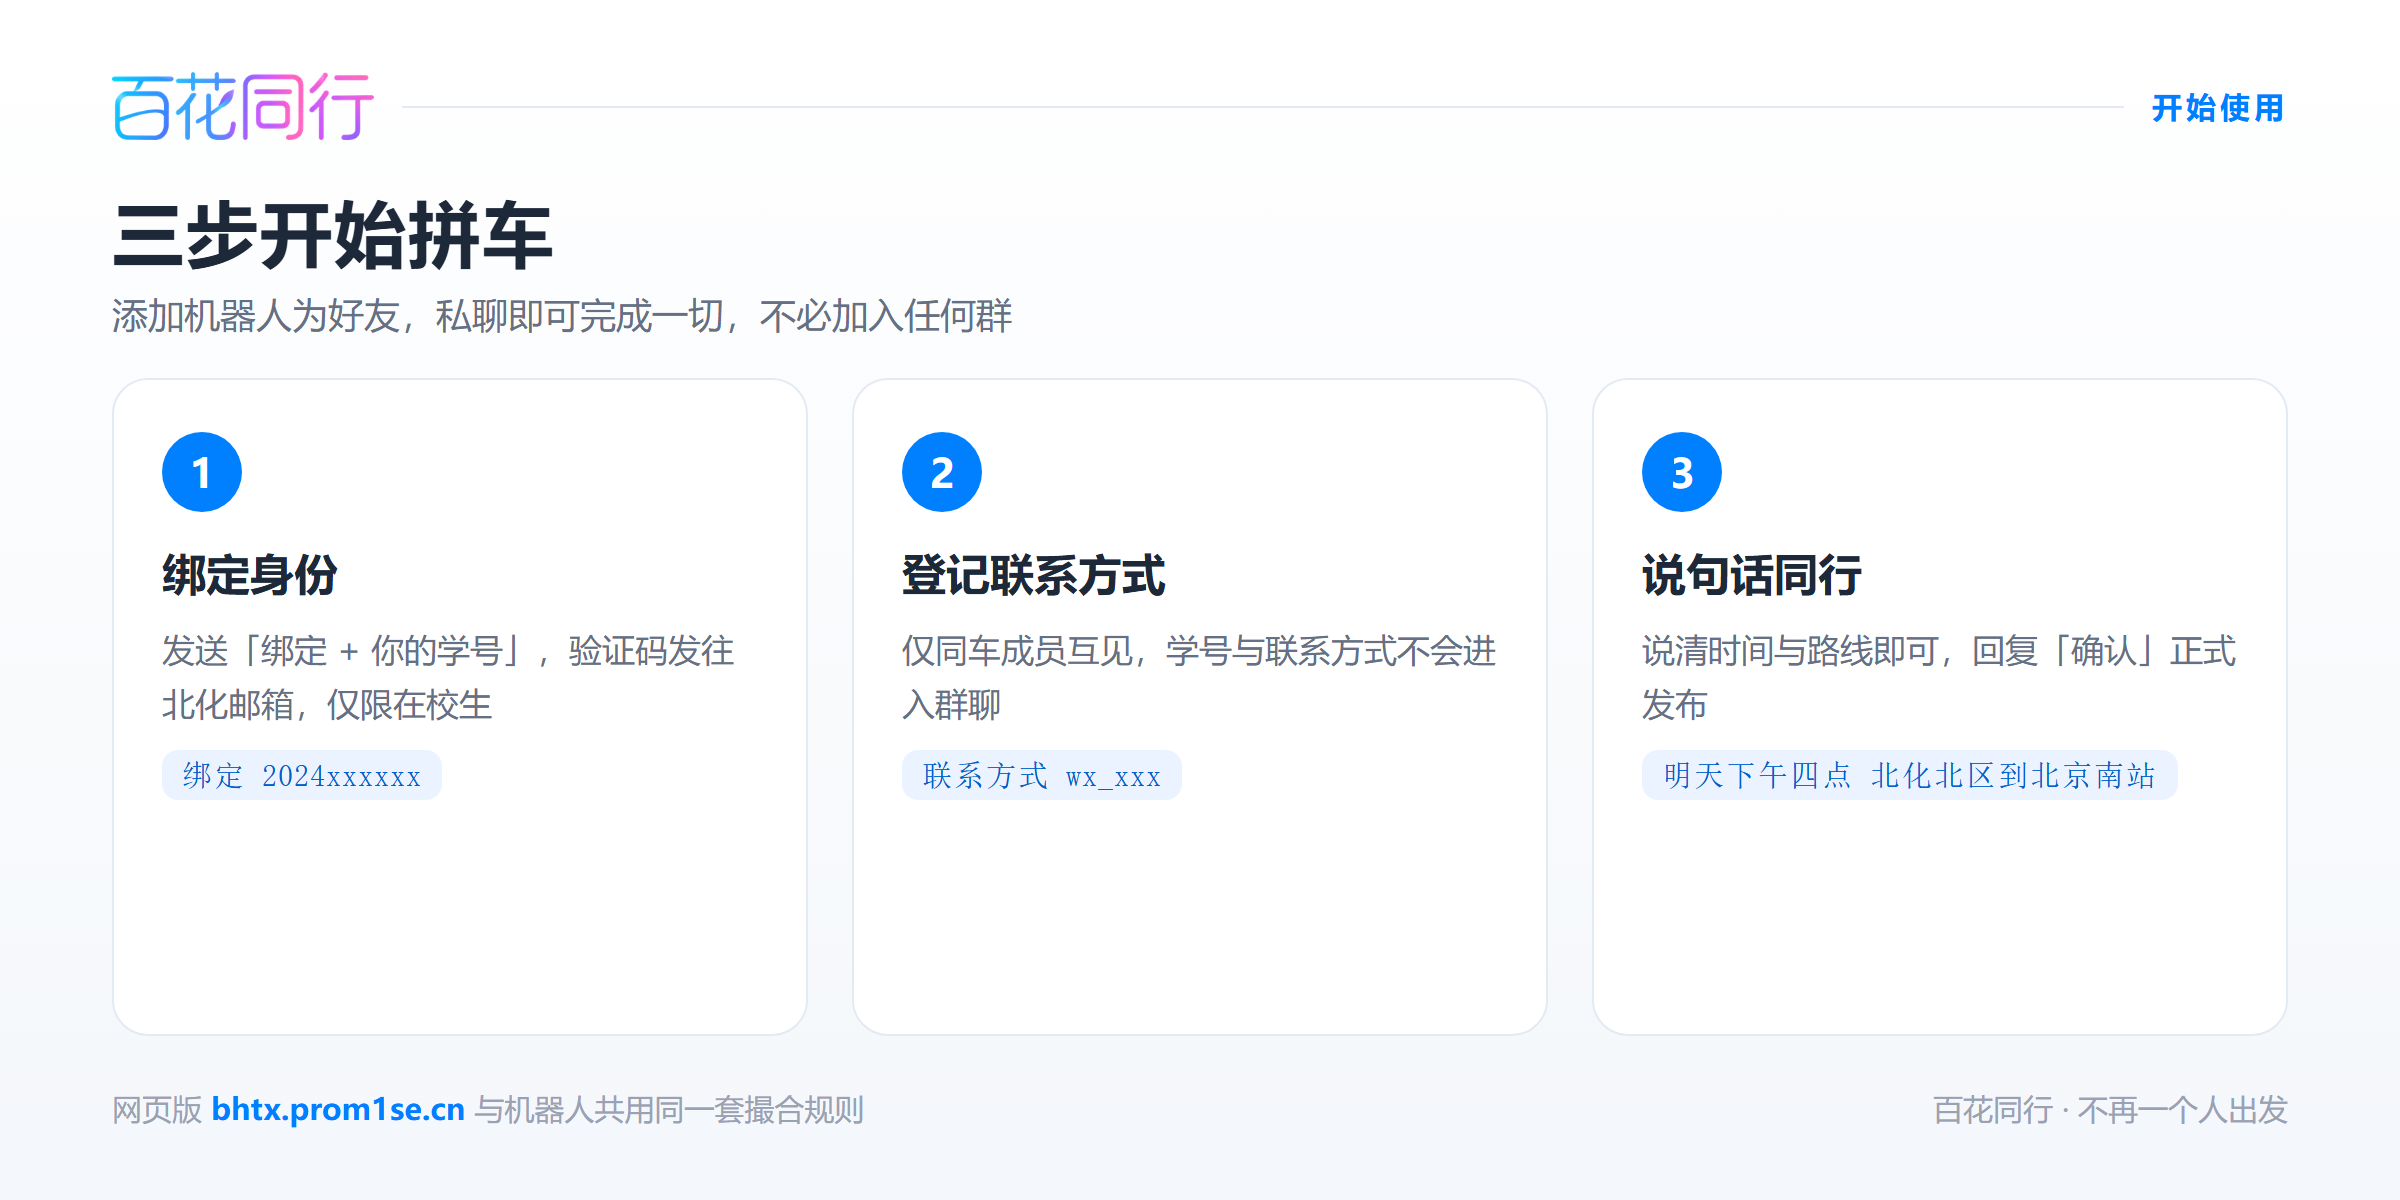
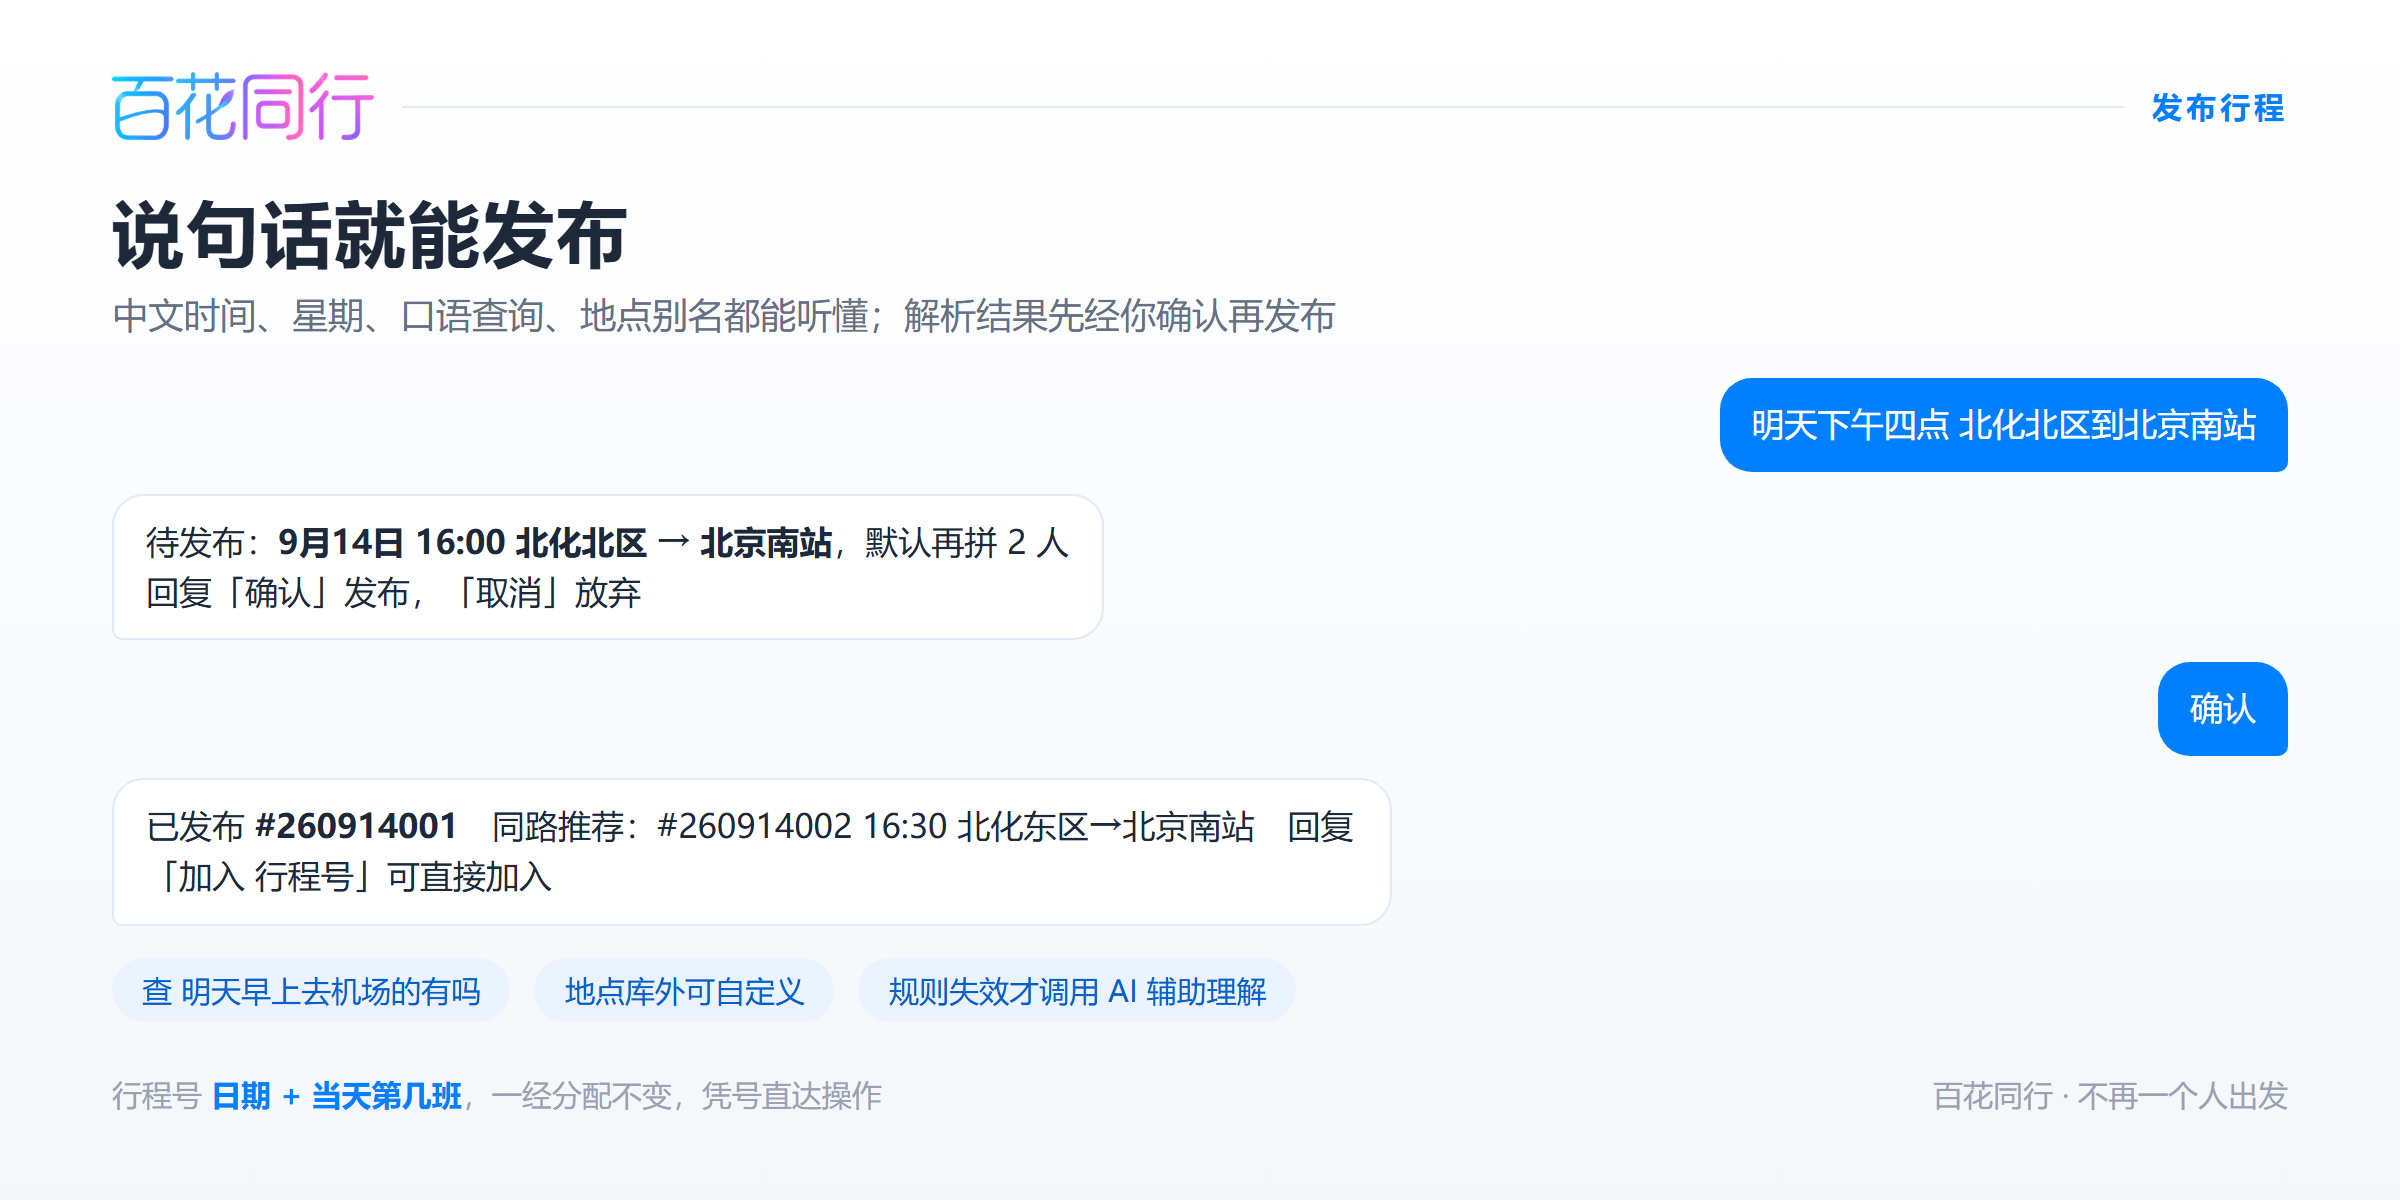
修正功能卡片图：hashchange 监听使四张各自渲染（上一版四张实为同一张）

diff --git a/tools/botcards.html b/tools/botcards.html
@@ -114,10 +114,15 @@
 </div>
 
 <script>
-  var show = location.hash.slice(1) || 'quick-start';
-  document.querySelectorAll('.card').forEach(function (el) {
-    if (el.id === show) el.style.display = 'flex';
-  });
+  function showCard() {
+    var show = location.hash.slice(1) || 'quick-start';
+    document.querySelectorAll('.card').forEach(function (el) {
+      el.style.display = el.id === show ? 'flex' : 'none';
+    });
+  }
+  // 同一文档内只变 hash 的导航不会重跑脚本，必须监听 hashchange
+  window.addEventListener('hashchange', showCard);
+  showCard();
 </script>
 </body>
 </html>
